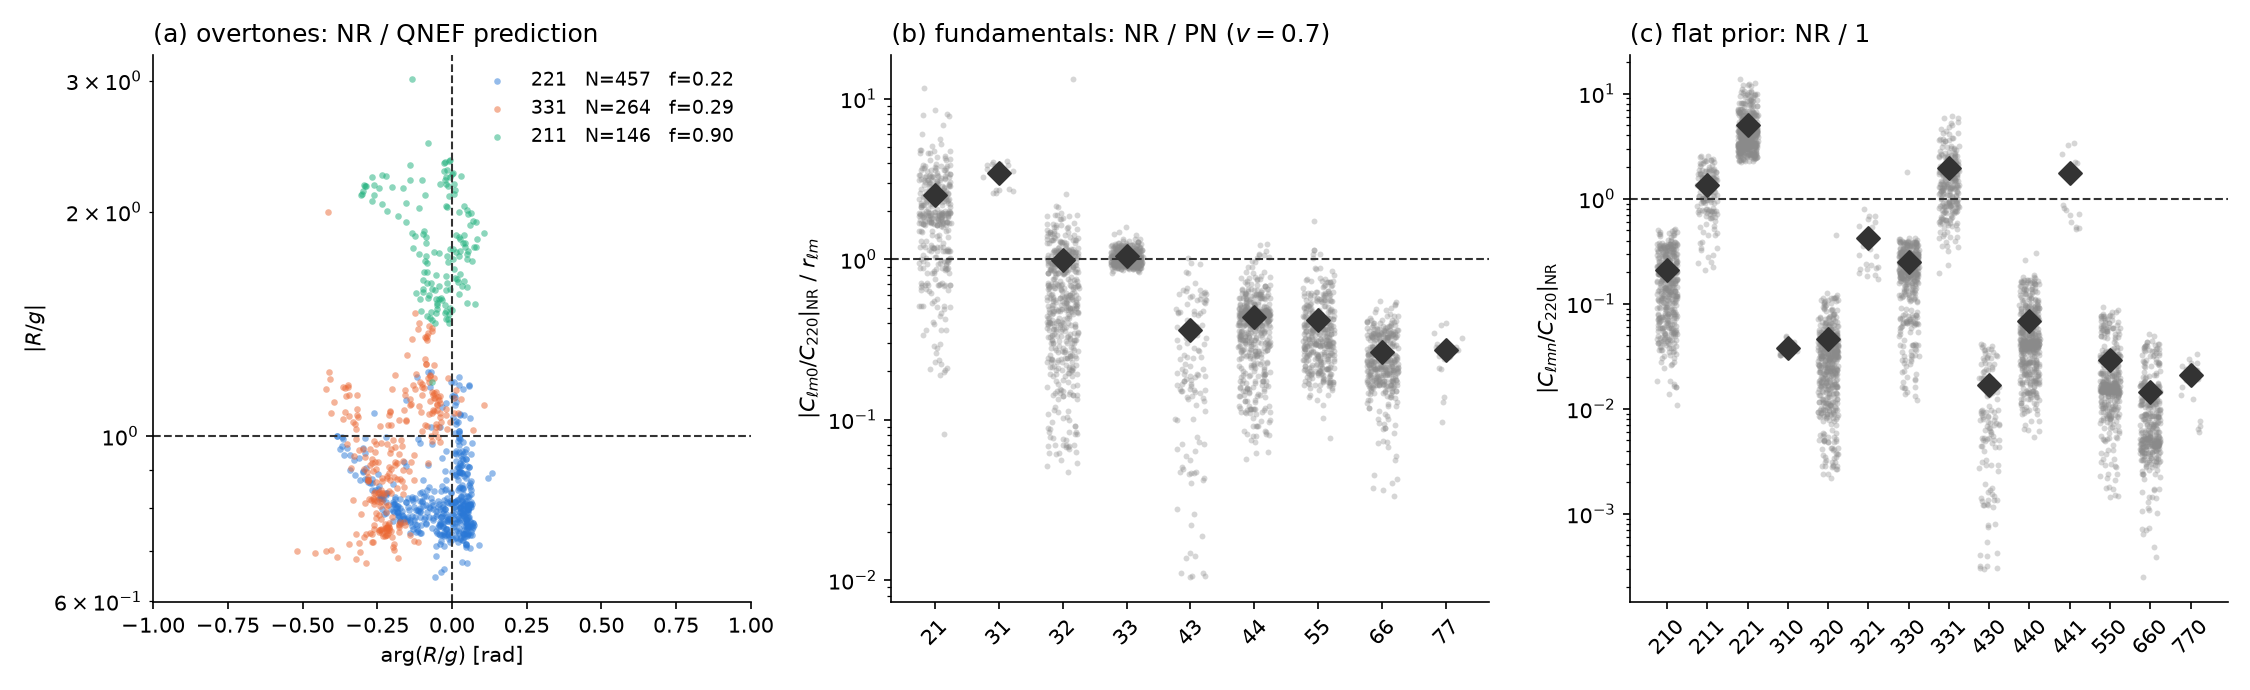
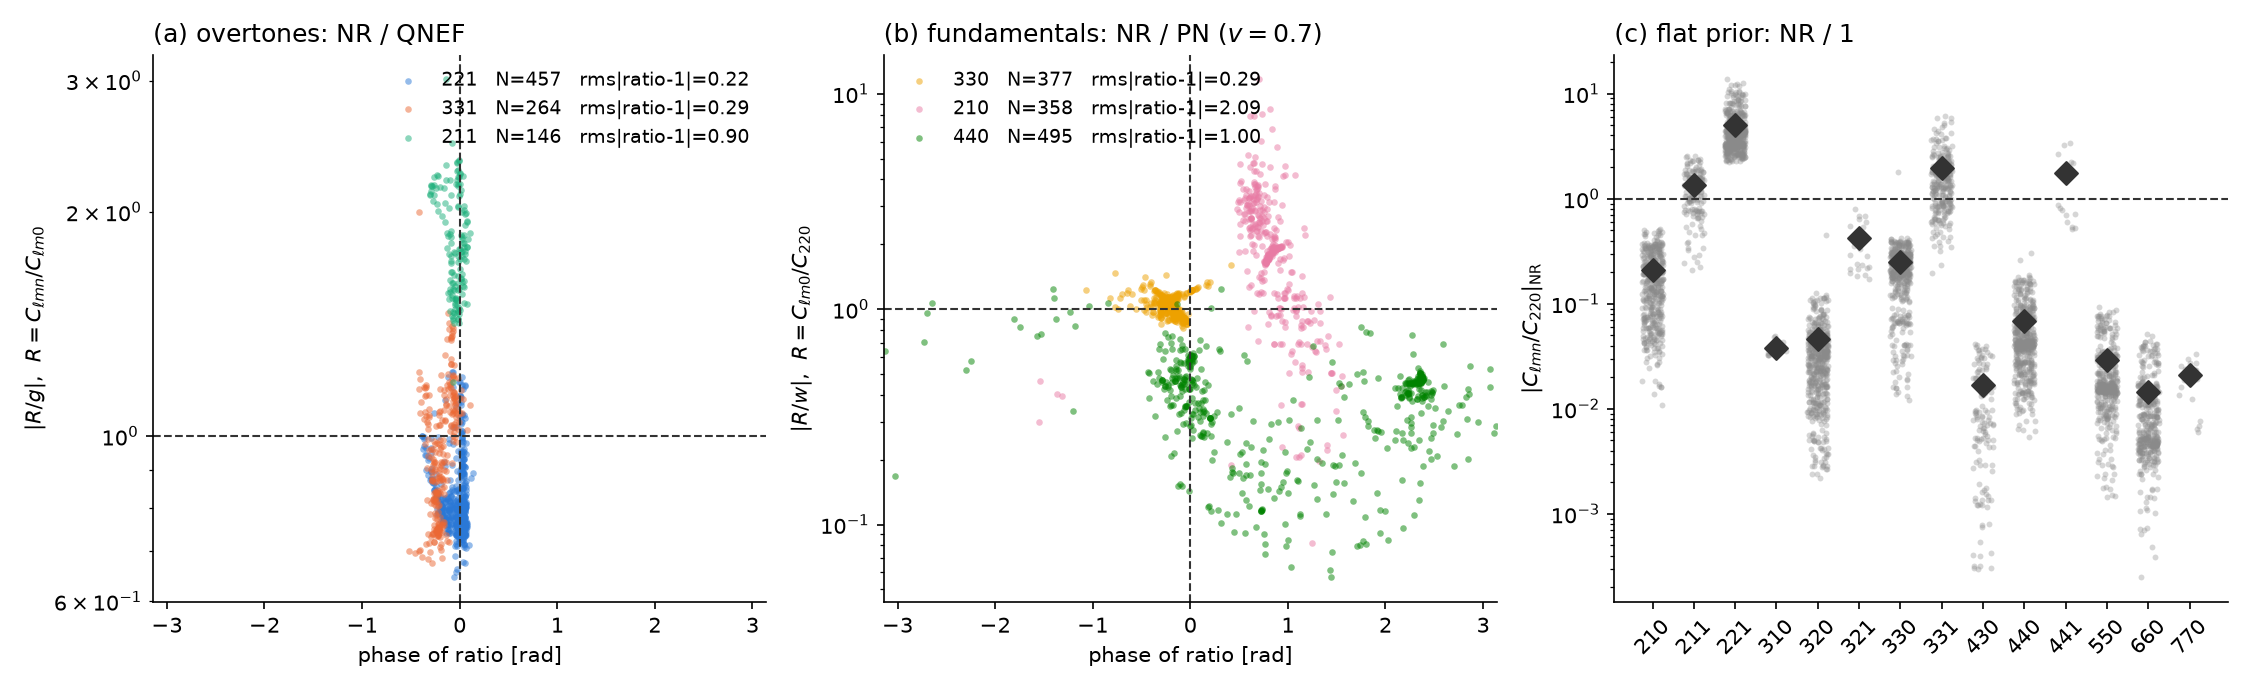
measuring-qnms: prior conditioned on observing angles (§8), F1 revised, log

diff --git a/projects/measuring-qnms/derivations.md b/projects/measuring-qnms/derivations.md
@@ -108,67 +108,66 @@ The integral is evaluated on a zero-padded frequency grid much longer than the s
 
 ## 8. The amplitude model (v2)
 
-The model is linear and Gaussian throughout, $d = G\theta + n$, with an exact posterior and channels from the SVD. There are three ingredients.
+The model is linear and Gaussian throughout, $d = G\theta + n$, with an exact posterior and channels from the SVD. Everything an IMR analysis would give us is **fixed**: the remnant mass and spin (hence the frequencies), the mass ratio, and the observing angles $(\iota, \varphi)$. Only the ringdown amplitudes are uncertain.
 
-### 8.1 Amplitudes and angles
+### 8.1 Amplitudes, angles and the strain
 
-Each QNM $j = (\ell, m, n)$ has one complex amplitude $C_j$. The inclination $\iota$ is **fixed** for each scenario: the measured value for a named event, or an axis we scan. QNM $j$ contributes
-
-$$
-C_j\, S_j(\iota)\, e^{-i\omega_j t} \;+\; \bar C_j\, \tilde S_j(\iota)\, e^{+i\bar\omega_j t}
-$$
-
-to the complex strain $h = h_+ - i h_\times$.
-
-- $S_j = \sum_{\ell'} c^{\,j}_{\ell'}\, {}_{-2}Y_{\ell' m}$ is its spheroidal harmonic, with mixing coefficients $c$ from the `qnm` package.
-- The second term is the mirror mode. Equatorial symmetry ($h_{\ell,-m} = (-1)^\ell \bar h_{\ell m}$, aligned spins) fixes it: $\tilde S_j = \sum_{\ell'} (-1)^{\ell'}\, \bar c^{\,j}_{\ell'}\, {}_{-2}Y_{\ell',-m}$. **The mirror adds no parameters.**
-- Because $\bar C_j$ appears, $h$ is linear in $\theta = (\mathrm{Re}\,C, \mathrm{Im}\,C)$ rather than in $C$. That is the only reason the parameters are real.
-- A detector records $\mathrm{Re}[(F_+ + iF_\times)h]$, which is also linear in $\theta$. This gives $G$.
-
-### 8.2 Prior: analytic ratios
-
-Within each $(\ell, m)$ overtone ladder, the overtones follow the fundamental through the excitation factors. All amplitudes are referenced to the **merger** ($t = 0$, the peak of $|h_{22}|$); the decay to a later start $t_0$ lives in the columns $e^{-i\omega t}$, so the prior itself does not depend on $t_0$:
+Each QNM $j = (\ell, m, n)$ has one complex amplitude $C_j$, referenced to the merger ($t = 0$, the peak of $|h_{22}|$). It contributes
 
 $$
-C_{\ell m n} = A_{\ell m 0}\, g_{\ell m n} + \epsilon_{\ell m n}, \qquad
-g_{\ell m n} = \frac{B_{\ell m n}}{B_{\ell m 0}} \left(\frac{\omega_{\ell m 0}}{\omega_{\ell m n}}\right)^{2}, \qquad g_{\ell m 0} = 1 .
+C_j\, S_j(\iota, \varphi)\, e^{-i\omega_j t} \;+\; \bar C_j\, \tilde S_j(\iota, \varphi)\, e^{+i\bar\omega_j t}
 $$
 
-$B$ is the complex Teukolsky ($s = -2$) excitation factor. The $(\omega_0/\omega_n)^2$ converts $\psi_4$ to strain ($\psi_4 = \ddot h$). NR confirms this factor is needed: without it the 221 phase is off by 0.57 rad.
+to $h = h_+ - i h_\times$.
 
-- The fundamental has $A_{\ell m 0} \sim \mathcal{CN}(0, \sigma_{\ell m}^2)$ with $\sigma_{\ell m} = r_{\ell m}(\eta, v)\, \sigma_{220}$, where $r_{\ell m}$ is the leading-order PN ratio.
-- The errors are independent: $\epsilon_{\ell m n} \sim \mathcal{CN}(0, s_{\ell m n}^2)$.
-- **Different ladders are independent**, because the unknown azimuth makes their relative phase uniform.
+- $S_j = \sum_{\ell'} c^{\,j}_{\ell'}\, {}_{-2}Y_{\ell' m}(\iota, \varphi)$ is its spheroidal harmonic.
+- The second term is the mirror mode. Equatorial symmetry fixes it, $\tilde S_j = \sum_{\ell'} (-1)^{\ell'} \bar c^{\,j}_{\ell'}\, {}_{-2}Y_{\ell', -m}$, so it adds **no parameters**.
+- $\varphi$ is the observer's azimuth in the frame where the orbital phase at merger is zero.
+- $h$ is linear in $\theta = (\mathrm{Re}\,C, \mathrm{Im}\,C)$, and so is the detector output $\mathrm{Re}[(F_+ + iF_\times)h]$. This gives $G$.
 
-Substituting into $\Sigma = \mathbb E[C C^\dagger]$ (the cross terms vanish because $\epsilon$ is independent of $A$ and has zero mean), the covariance is block-diagonal, one block per $(\ell, m)$:
+A later start time $t_0$ only moves the time grid: the decay is in $e^{-i\omega t}$, and the prior below does not change.
 
-$$
-\Sigma_C^{(\ell m)} = \sigma_{\ell m}^2\, g\, g^\dagger + \mathrm{diag}(s^2), \qquad \Sigma_\theta = \tfrac12\begin{pmatrix}\mathrm{Re}\,\Sigma_C & -\mathrm{Im}\,\Sigma_C\\ \mathrm{Im}\,\Sigma_C & \mathrm{Re}\,\Sigma_C\end{pmatrix}.
-$$
-
-**Example: the 220 + 221 block.** With $g = (1,\ 4e^{i\theta})$, $\sigma = 1$ and $s_{221} = 0.3 \times 4$:
+### 8.2 Prior: every mode tied to the 220
 
 $$
-\Sigma_C = \begin{pmatrix} 1 & 4e^{-i\theta} \\ 4e^{i\theta} & 17.44 \end{pmatrix}.
+C_{\ell m 0} = w_{\ell m}\, A_{220} + \epsilon_{\ell m 0}, \qquad
+C_{\ell m n} = g_{\ell m n}\, C_{\ell m 0} + \epsilon_{\ell m n}, \qquad A_{220} \sim \mathcal{CN}(0, \sigma_{220}^2).
 $$
 
-The correlation is $0.96$: knowing $C_{220}$ fixes $C_{221}$ to within 30%, in modulus *and* phase.
+- $w_{\ell m} = (h_{\ell m}/h_{22})_{\rm PN}$ is **complex**: leading-order PN, in the same frame (orbital phase zero). $w_{22} = 1$.
+- $g_{\ell m n} = (B_{\ell m n}/B_{\ell m 0})\,(\omega_{\ell m 0}/\omega_{\ell m n})^2$ is also complex. $B$ are the Teukolsky excitation factors, and $(\omega_0/\omega_n)^2$ converts $\psi_4 = \ddot h$ to strain.
+- The errors are independent and relative:
 
-### 8.3 Error: calibrated on NR
+$$
+\epsilon_{\ell m 0} \sim \mathcal{CN}\big(0,\ (e_{\ell m} |w_{\ell m}| \sigma_{220})^2\big), \qquad
+\epsilon_{\ell m n} \sim \mathcal{CN}\big(0,\ (f_{\ell m n} |g_{\ell m n}| \sigma_{\ell m})^2\big),
+$$
 
-NR amplitudes do not enter the model. The jaxqualin SXS extractions (500 runs with $\chi_f \ge 0$, all referenced to the peak of $|h_{22}|$) set only the prior's second moments. Each NR harmonic amplitude is divided by the mode's mixing coefficient $c_\ell$ to give the spheroidal $C$, and outliers beyond $5\sigma$ (robust, in log space) are dropped.
+  with $\sigma_{\ell m}^2 = \mathbb E|C_{\ell m 0}|^2 = |w_{\ell m}|^2 \sigma_{220}^2 (1 + e_{\ell m}^2)$.
 
-- **Overtone error:** $f_{\ell m n} = \mathrm{rms}\,|R/g - 1|$, with $R = C_{\ell m n}/C_{\ell m 0}$ from NR. Then $s_{\ell m n} = f_{\ell m n}\,|g_{\ell m n}|\,\sigma_{\ell m}$.
-- **Fundamental ratio error:** $k_{\ell m} = \mathrm{rms}\; \big(|C_{\ell m 0}/C_{220}|_{\rm NR} / r_{\ell m}\big)$. Then $\sigma_{\ell m} = k_{\ell m}\, r_{\ell m}\, \sigma_{220}$.
-- **Flat prior** ($\Sigma_C = \sigma^2 I$): its error is $\mathrm{rms}\,|C_{\ell m n}/C_{220}|$, which the flat prior sets to 1.
+Substituting into $\Sigma = \mathbb E[C C^\dagger]$ (cross terms vanish because the errors are independent and zero-mean), with $u_j = g_j w_j$:
 
-These are second moments, so they include any bias, as a Gaussian prior requires. Ladders with fewer than 10 runs fall back to defaults: the pooled $k$, and the largest $f$. The values are in `mqnm/data/nr_calibration.json`, and the figure is in [results](#results).
+$$
+\Sigma_C = \sigma_{220}^2\, u\, u^\dagger \;+\; \sum_{(\ell, m)} (e_{\ell m} |w_{\ell m}| \sigma_{220})^2\; g^{(\ell m)} g^{(\ell m)\dagger} \;+\; \mathrm{diag}\big(f_j |g_j| \sigma_{\ell m}\big)^2 .
+$$
+
+The first term ties everything to $A_{220}$. The second lets each $(\ell, m)$ ladder move together away from its PN prediction. The third is each overtone's own error. When NR shows a ratio is unpredictable ($e \gtrsim 1$), that ladder decouples from the 220 automatically.
+
+**The flat prior** is the uninformed alternative: $\Sigma_C = \sigma^2 I$, independent modes with a common scale.
+
+### 8.3 Errors: calibrated on NR
+
+NR amplitudes do not enter the model. The jaxqualin SXS extractions (500 runs with $\chi_f \ge 0$, at the peak of $|h_{22}|$) set only $e$ and $f$:
+
+- **$f_{\ell m n} = \mathrm{rms}\,|R/g - 1|$**, with $R = C_{\ell m n}/C_{\ell m 0}$. This ratio is frame-independent.
+- **$e_{\ell m} = \mathrm{rms}\,|R/w - 1|$**, with $R = C_{\ell m 0}/C_{220}$ after rotating each run into the PN frame. The rotation uses the phase of the run's own 220, $C_{\ell m} \to C_{\ell m} e^{im\Phi}$. For odd $m$ that fixes $\Phi$ only up to $\pi$, and the branch closest to PN is taken, which slightly understates the scatter.
+- **Flat prior:** $\mathrm{rms}\,|C_{\ell m n}/C_{220}|$, which it sets to 1.
+
+NR harmonic amplitudes are converted to spheroidal ones by dividing by $c_\ell$, and $5\sigma$ outliers (robust, in log space) are dropped. These are second moments, so they include any bias. Ladders with fewer than 10 runs fall back to the pooled $e$ and the largest $f$. The values are in `mqnm/data/nr_calibration.json`; see finding F1 in [results](#results).
 
 ### 8.4 Counting parameters
 
-220 + 221 gives two complex amplitudes, i.e. 4 real parameters, and the prior correlation carries their predicted ratio. The angles are *handled* rather than fitted: $\iota$ is conditioned on and the azimuth is averaged into the prior.
-
-**Superseded:** v1's rank-one prior with $|B|$ and real loadings, and a Fisher proposal (withdrawn 2026-09-24). Both remain in the git history.
+220 + 221 gives two complex amplitudes, i.e. 4 real parameters. The prior carries their predicted complex ratio. The angles, masses and spins are fixed, as they would be after an IMR analysis. Populations are handled by ensembles over them, not by averaging inside the prior.
 
 ## 9. Two-mode toy model in closed form
 

diff --git a/projects/measuring-qnms/results.md b/projects/measuring-qnms/results.md
@@ -8,22 +8,21 @@ Each finding is self-contained:
 - **Setup**: source, detector, prior, mode content.
 - **Reproduce**: script and commit.
 
-### F1 — Is the analytic prior right, and how wrong is the flat one? (2026-09-24)
+### F1 — Is the analytic prior right, and how wrong is the flat one? (2026-09-24, revised for the conditioned prior)
 
 <figure>
-<a href="figs/nr_calibration.png"><img src="figs/nr_calibration.png" alt="Three panels: NR over QNEF overtone ratios in modulus and phase; NR over PN fundamental ratios per harmonic; NR amplitude over the 220 per mode"></a>
-<figcaption>Grey dots are individual SXS runs; diamonds are the calibrated rms values stored in the prior. (a) NR overtone ratios $C_{\ell m1}/C_{\ell m0}$ over the QNEF prediction $g$: a perfect prediction sits at $(0, 1)$. (b) NR fundamental ratios over the leading-order PN $r_{\ell m}$ at $v = 0.7$. (c) NR $|C_{\ell mn}/C_{220}|$, which the flat prior sets to 1.</figcaption>
+<a href="figs/nr_calibration.png"><img src="figs/nr_calibration.png" alt="Three panels: NR over QNEF overtone ratios in phase and modulus; NR over PN fundamental ratios in phase and modulus; NR amplitude over the 220 per mode"></a>
+<figcaption>Each dot is one SXS run; a perfect prediction sits at phase 0, modulus 1. (a) Overtone ratios $C_{\ell m1}/C_{\ell m0}$ over the QNEF $g$. (b) Fundamental ratios $C_{\ell m0}/C_{220}$ over the complex PN $w$, after rotating each run into the PN frame. (c) $|C_{\ell mn}/C_{220}|$, which the flat prior sets to 1; diamonds are the rms values.</figcaption>
 </figure>
 
-**Question.** Does the analytic PN × QNEF prior describe NR ringdowns at the merger, and how large are its errors, compared with those of a flat prior?
+**Question.** Does the analytic PN × QNEF prior describe NR ringdowns at the merger, in modulus *and phase*, and how large are its errors compared with a flat prior's?
 
 **Takeaway.**
 
-- The QNEF prediction gets the overtone **phase** right: 221/220 is off by $-0.01$ rad (median), with 0.11 rad scatter over 457 runs. The modulus is within about 20%.
-- The calibrated overtone errors are $f_{221} = 0.22$ and $f_{331} = 0.29$. The 211 is the worst, at 0.90: NR is about 1.8× the prediction.
-- PN is right for $(3,3)$ and $(3,2)$ ($k \approx 1$). It overpredicts the high-$\ell$ fundamentals by 2–4× ($k_{44} = 0.44$, $k_{66} = 0.26$) and underpredicts $(2,1)$ ($k = 2.5$, where leading-order PN has no spin term).
-- The flat prior is off by up to two decades: the 221 is $5\times$ the 220, the 440 is $0.07\times$, the 660 is $0.014\times$.
+- **Overtones:** the QNEF phase is right. The 221/220 median phase error is $-0.01$ rad, with 0.11 rad scatter over 457 runs, and the modulus is within about 20%. Calibrated errors: $f_{221} = 0.22$, $f_{331} = 0.29$, $f_{211} = 0.90$ (NR is about 1.8× the prediction).
+- **Fundamentals:** PN gets the 330 relative to the 220 right in phase ($-0.19$ rad, interquartile range 0.14 rad) and modulus (1.03), so $e_{33} = 0.29$. For the 210, NR is biased by 1.9× and $+0.8$ rad, since leading-order PN has no spin term; $e_{21} = 2.1$. The 440 is barely predictable ($e_{44} = 1.0$, with two phase clusters) and so, in effect, decouples from the 220.
+- **Flat prior:** it is off by up to two decades. The 221 is $5\times$ the 220; the 660 is $0.014\times$.
 
-**Setup.** jaxqualin SXS catalogue, 500 runs with $\chi_f \ge 0$, amplitudes at the peak of $|h_{22}|$, spheroidal-corrected, 5σ outlier rejection.
+**Setup.** jaxqualin SXS catalogue, 500 runs with $\chi_f \ge 0$, amplitudes at the peak of $|h_{22}|$, spheroidal-corrected, 5σ outlier rejection, PN at $v = 0.7$.
 
-**Reproduce.** `python -m mqnm.experiments.nr_calibration` (mqnm commit `60bc41c`), which also writes `mqnm/data/nr_calibration.json`.
+**Reproduce.** `python -m mqnm.experiments.nr_calibration`, which also writes `mqnm/data/nr_calibration.json`.

diff --git a/projects/measuring-qnms/log.md b/projects/measuring-qnms/log.md
@@ -1,5 +1,12 @@
 Newest first. One entry per working session: what was done, what was learned, and what went wrong.
 
+### 2026-09-24 — prior conditioned on the observing angles
+
+- Your correction: the relation should run through the 220, $C_{\ell m n} = g\, w\, A_{220} + \epsilon$. I had averaged over the azimuth, which made different $m$ independent and lost the fact that $|C_{330}|$ tracks $|C_{220}|$. Now $(\iota, \varphi)$ are fixed, like the masses and spins from an IMR fit; $w$ is the complex PN ratio, and every mode couples through $A_{220}$ ([derivations §8](#derivations)).
+- **NR check.** The frame-independent phase $\arg C_{\ell m 0} - \tfrac m2 \arg C_{220}$ is coherent for $(2,1)$, $(3,3)$ and $(4,3)$ (0.2–0.5 rad scatter), and much less so for $(4,4)$, $(5,5)$ and $(3,2)$. PN predicts the 330 phase to $-0.19$ rad.
+- **Bug caught.** While rotating NR runs into the PN frame, I first used the phase of $h_{22}/h_{22} = 1$ instead of $h_{22}$ itself, which shifted every $m = 3$ residual by $\pi/2$. Fixed; `pn_mode` is now exposed.
+- F1 re-run with complex fundamental errors. 106 tests pass.
+
 ### 2026-09-24 — Phase B: priors calibrated on NR; code tightened
 
 - **Implemented** `FlatPrior` and `QNEFPrior`. All amplitudes are referenced to the merger, and $t_0$ is scanned through the time grid. $g$ uses the complex Teukolsky $B$ times $(\omega_0/\omega_n)^2$. Without that $\psi_4 \to$ strain factor, the 221 phase against NR is off by 0.57 rad; with it, by 0.01 rad.
